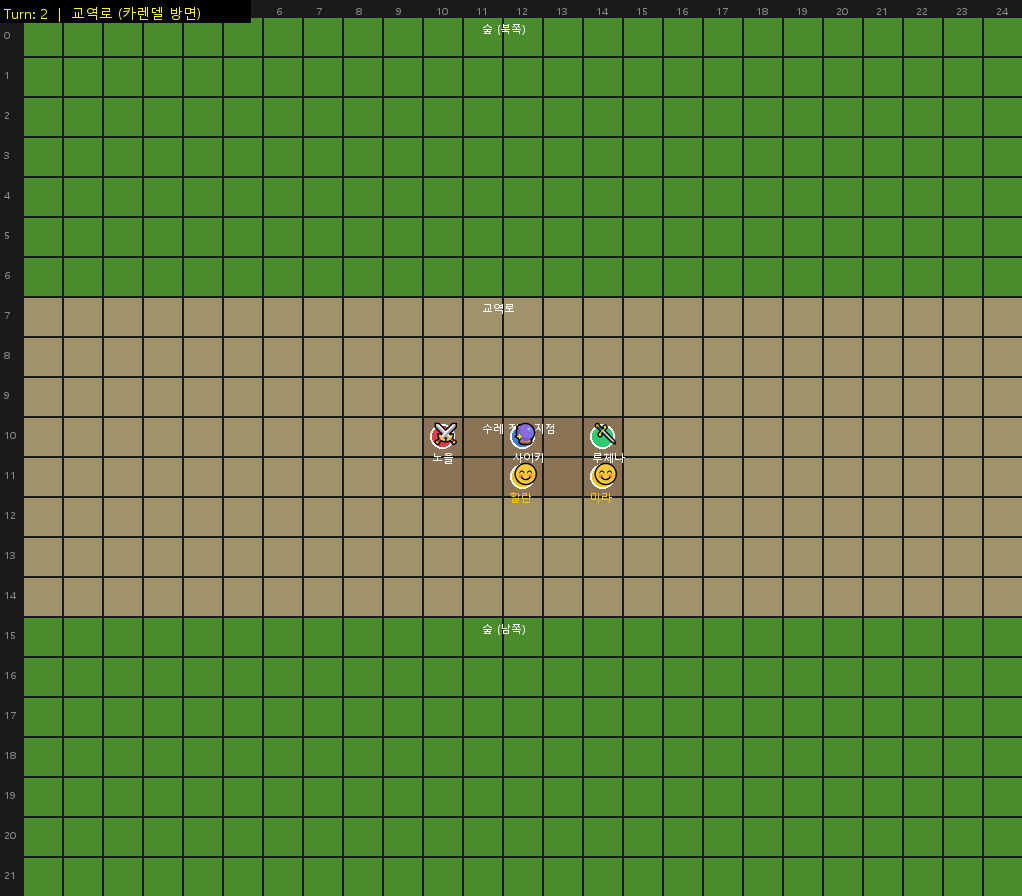
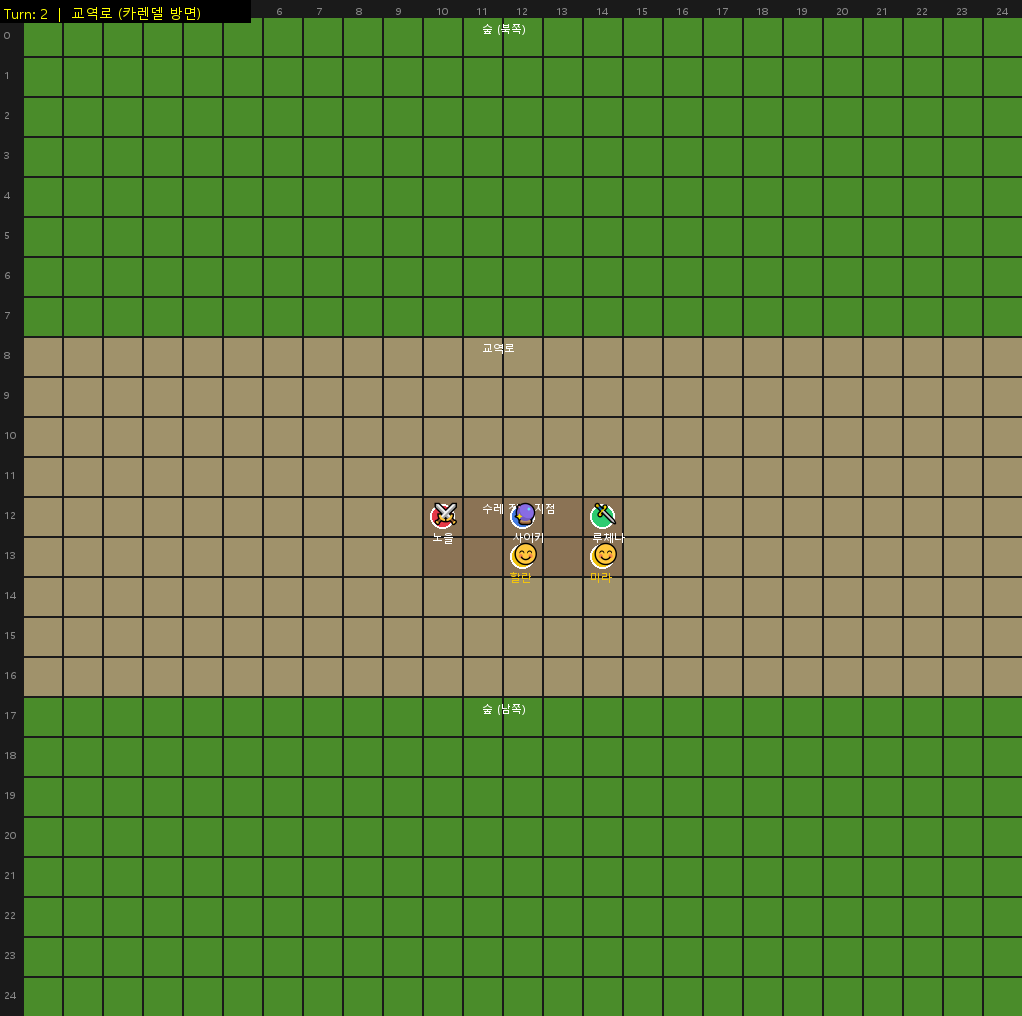
fix: 맵 25x25 + 미니맵 세로 확장 (640x560, 정사각형에 가깝게)
- 전체 맵: 25x25 정사각형, tile 40px (1022x1016px)
- 미니맵: radius_y 6→7 (640x560px, 비율 1.14:1)
- max-height 220px
- 가로 좌표 표시 수정

diff --git a/templates/index.html b/templates/index.html
@@ -373,7 +373,7 @@
         /* Map in sidebar */
         .sidebar-map img {
             width: 100%;
-            max-height: 200px;
+            max-height: 220px;
             object-fit: cover;
             border-radius: 8px;
             border: 2px solid #333;

diff --git a/map_generator.py b/map_generator.py
@@ -267,8 +267,8 @@ class MapGenerator:
         avg_y = sum(p[1] for p in positions) / len(positions)
 
         # 주변 반경 (타일 단위) — 가로세로 다르게
-        radius_x = 6
-        radius_y = 5  # 세로 한 칸 더
+        radius_x = 8
+        radius_y = 7  # 정사각형에 가깝게
         margin_left = 22
         margin_top = 16
 
@@ -307,17 +307,17 @@ class MapGenerator:
         tile_end_x = tile_start_x + int(crop_w / self.tile_size) + 1
         tile_end_y = tile_start_y + int(crop_h / self.tile_size) + 1
 
-        # 가로 좌표 (상단)
+        # 가로 좌표 (상단) — 12px from top to avoid clipping
         for i in range(tile_start_x, tile_end_x):
             px = (i * self.tile_size + margin_left + self.tile_size // 2) - left - 4
             if 0 <= px < cropped.width:
-                draw_mini.text((px, 2), str(i), fill="#cccccc", font=coord_font)
+                draw_mini.text((px, 12), str(i), fill="#cccccc", font=coord_font)
 
-        # 세로 좌표 (좌측)
+        # 세로 좌표 (좌측) — 4px from left for readability
         for i in range(tile_start_y, tile_end_y):
             py = (i * self.tile_size + margin_top + self.tile_size // 2) - top - 6
-            if 0 <= py < cropped.height:
-                draw_mini.text((2, py), str(i), fill="#cccccc", font=coord_font)
+            if 12 <= py < cropped.height:
+                draw_mini.text((4, py), str(i), fill="#cccccc", font=coord_font)
 
         mini_path = os.path.join(self.base_dir, "static", "map_mini.png")
         cropped.save(mini_path, "PNG")
